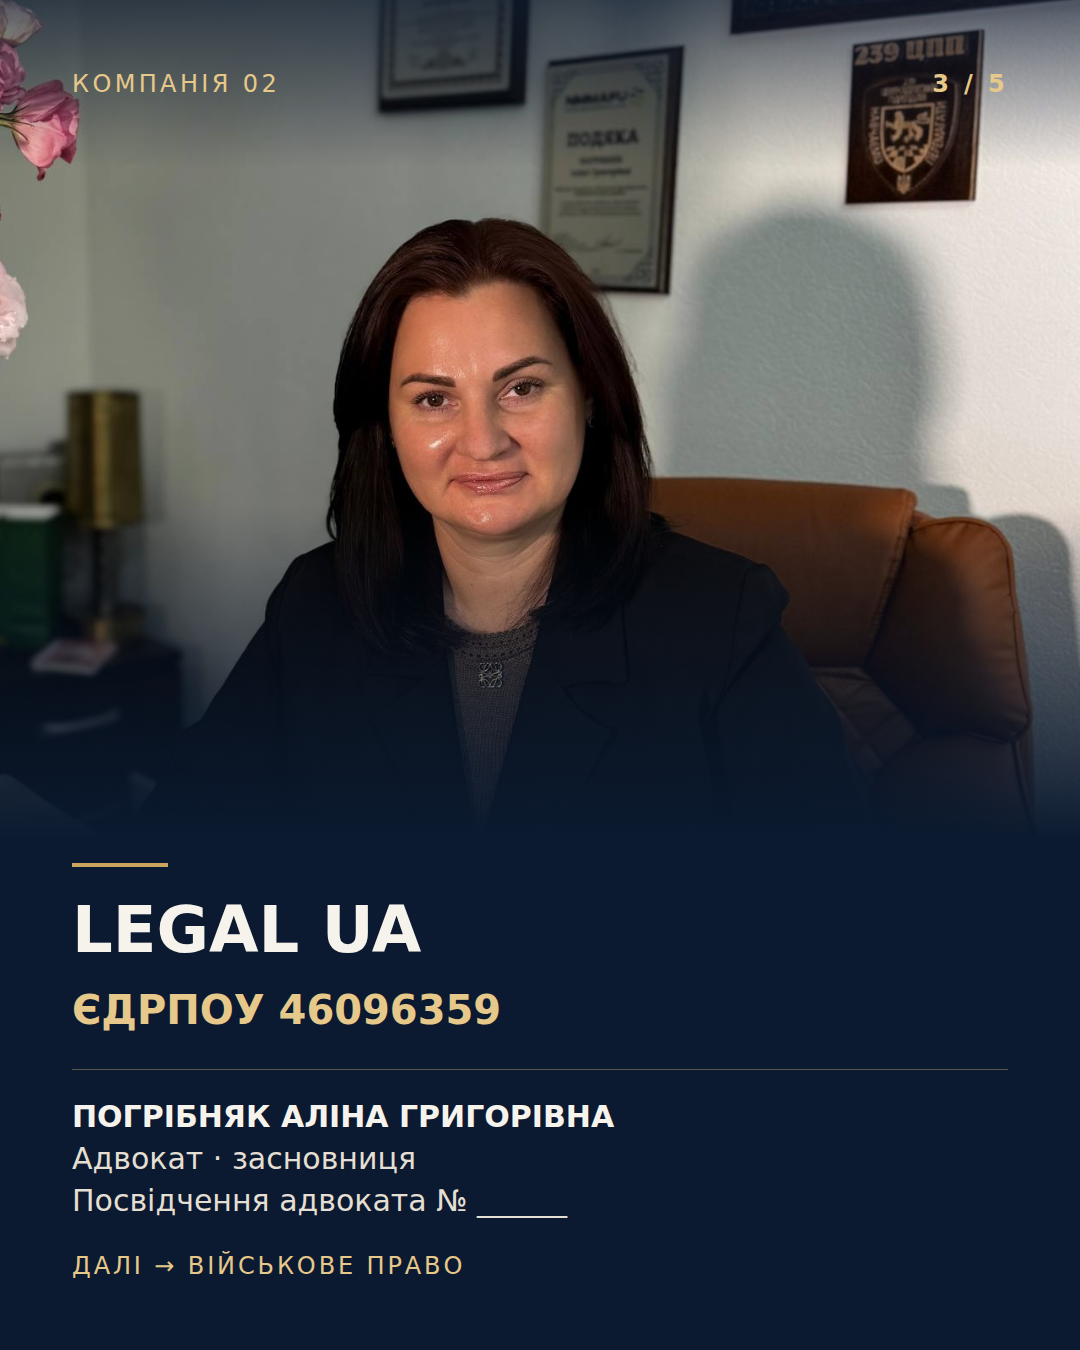
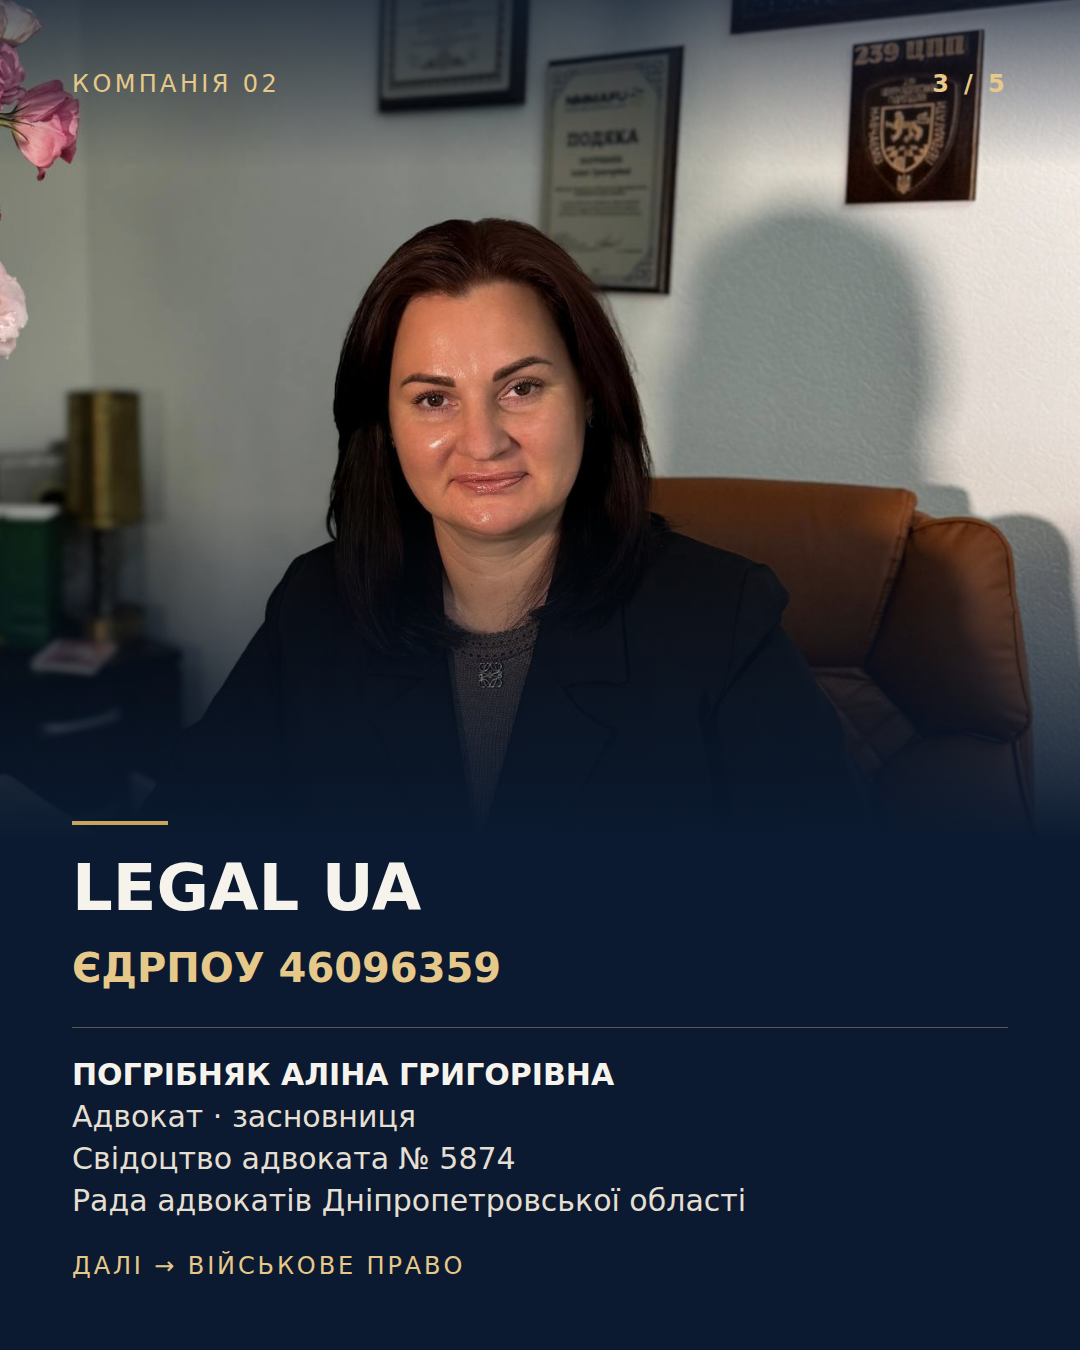
Carousel: add lawyer certificate number and bar council
Claude-Session: https://claude.ai/code/session_01ScKPRsarJZMd8inKAKUiyX

Changed region(s): [[0.0611, 0.6222, 0.7028, 0.9022]]

diff --git a/carousel/slides.html b/carousel/slides.html
@@ -55,7 +55,7 @@
     <div class="rule"></div>
     <div class="name">{{FIO}}</div>
     <div class="role" style="font-size:30px;line-height:1.3">Адвокат · голова профспілки «Військове право»<br>Слідчий у 2006–2016 рр. · засновниця 4 компаній</div>
-    <div class="cert">Посвідчення адвоката <b>№ {{CERT}}</b></div>
+    <div class="cert" style="font-size:25px">Свідоцтво <b>№ {{CERT}}</b> · Рада адвокатів Дніпропетровської області</div>
     <div class="label">Засновані компанії</div>
     <div class="co">ПРАВОВИЙ ЗАХИСТ ДНІПРО <small>ЄДРПОУ 45678449</small></div>
     <div class="co">LEGAL UA <small>ЄДРПОУ 46096359</small></div>
@@ -74,7 +74,7 @@
     <div class="rule"></div>
     <div class="big">Правовий захист Дніпро</div>
     <div class="edrpou">ЄДРПОУ 45678449</div>
-    <div class="founder"><b>{{FIO}}</b><br>Адвокат · засновниця<br>Посвідчення адвоката № {{CERT}}</div>
+    <div class="founder"><b>{{FIO}}</b><br>Адвокат · засновниця<br>Свідоцтво адвоката № {{CERT}}<br>Рада адвокатів Дніпропетровської області</div>
     <div class="swipe">Далі → LEGAL UA</div>
   </div>
 </section>
@@ -88,7 +88,7 @@
     <div class="rule"></div>
     <div class="big">LEGAL UA</div>
     <div class="edrpou">ЄДРПОУ 46096359</div>
-    <div class="founder"><b>{{FIO}}</b><br>Адвокат · засновниця<br>Посвідчення адвоката № {{CERT}}</div>
+    <div class="founder"><b>{{FIO}}</b><br>Адвокат · засновниця<br>Свідоцтво адвоката № {{CERT}}<br>Рада адвокатів Дніпропетровської області</div>
     <div class="swipe">Далі → Військове право</div>
   </div>
 </section>
@@ -102,7 +102,7 @@
     <div class="rule"></div>
     <div class="big">ПО «Військове право»</div>
     <div class="edrpou">ЄДРПОУ 45011562</div>
-    <div class="founder"><b>{{FIO}}</b><br>Голова профспілки військовослужбовців · адвокат<br>Посвідчення адвоката № {{CERT}}</div>
+    <div class="founder"><b>{{FIO}}</b><br>Голова профспілки військовослужбовців · адвокат<br>Свідоцтво адвоката № {{CERT}}<br>Рада адвокатів Дніпропетровської області</div>
     <div class="swipe">Далі → Експертне бюро</div>
   </div>
 </section>
@@ -116,7 +116,7 @@
     <div class="rule"></div>
     <div class="big" style="font-size:44px">Незалежне експертно-консультаційне бюро медичних досліджень та експертиз Дніпро</div>
     <div class="edrpou">ЄДРПОУ 46122011</div>
-    <div class="founder"><b>{{FIO}}</b><br>Адвокат · засновниця<br>Посвідчення адвоката № {{CERT}}</div>
+    <div class="founder"><b>{{FIO}}</b><br>Адвокат · засновниця<br>Свідоцтво адвоката № {{CERT}}<br>Рада адвокатів Дніпропетровської області</div>
     <div class="swipe">Юридична допомога військовим та їх родинам</div>
   </div>
 </section>
